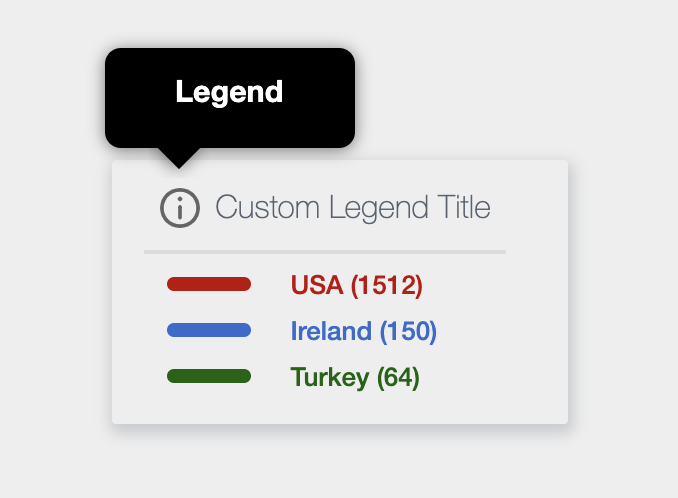
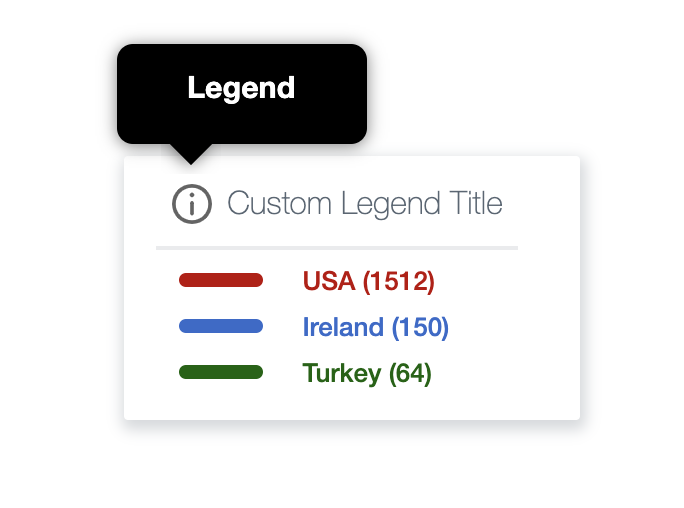
README is updated with new screenshots

Changed region(s): [[0.1239, 0.0602, 0.8673, 0.9036], [0.2478, 0.1506, 0.4336, 0.241]]

diff --git a/src/index.html b/src/index.html
@@ -18,7 +18,7 @@
       height: 100vh;
       display: grid;
       font-size: 13px;
-      background-color: #eee;
+      background-color: #fff;
       font-family: opensans, Helvetica Neue, Helvetica, Arial, sans-serif;
     }
 
